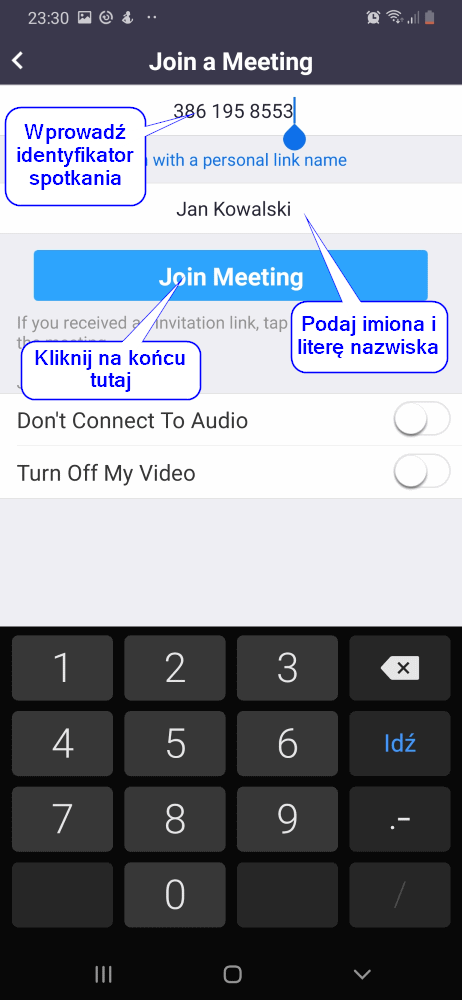
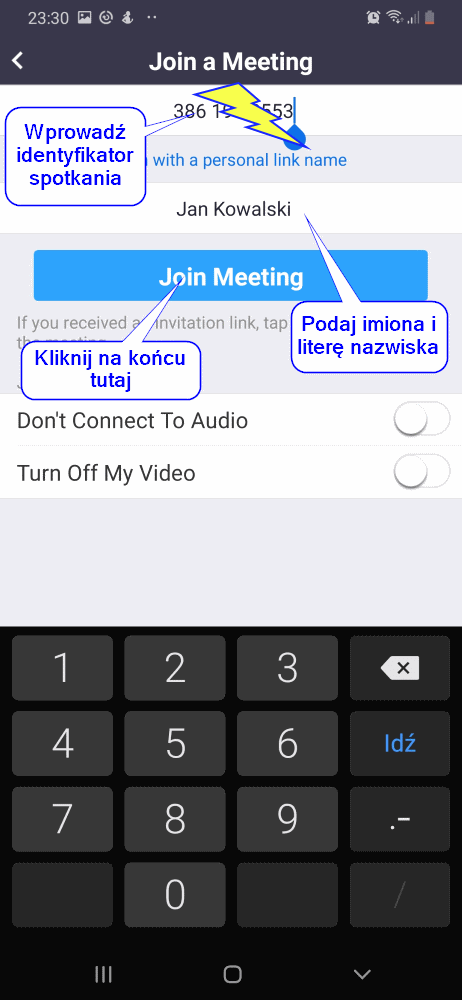
Updated desc of connection to ZOOM

Changed region(s): [[0.4242, 0.062, 0.6667, 0.155]]

diff --git a/zoom/index.html b/zoom/index.html
@@ -226,6 +226,6 @@ header, .context-menu, .megamenu-content, footer { font-family: "Segoe UI", Aria
 </style>
 </head>
 <body class='typora-export os-windows' >
-<div  id='write'  class = 'is-node'><h1><a name='header-n0' class='md-header-anchor '></a>Przygotowanie komputera do spotkania w „ZOOM”</h1><h2><a name='header-n2' class='md-header-anchor '></a>Spis treści</h2><div class='md-toc' mdtype='toc'><p class="md-toc-content"><span class="md-toc-item md-toc-h1" data-ref="n0"><a class="md-toc-inner" style="cursor: pointer;" href="#header-n0">Przygotowanie komputera do spotkania w „ZOOM”</a></span><span class="md-toc-item md-toc-h2" data-ref="n2"><a class="md-toc-inner" style="cursor: pointer;" href="#header-n2">Spis treści</a></span><span class="md-toc-item md-toc-h2" data-ref="n3"><a class="md-toc-inner" style="cursor: pointer;" href="#header-n3">Co to jest ZOOM?</a></span><span class="md-toc-item md-toc-h2" data-ref="n6"><a class="md-toc-inner" style="cursor: pointer;" href="#header-n6">Wymagania początkowe</a></span><span class="md-toc-item md-toc-h2" data-ref="n10"><a class="md-toc-inner" style="cursor: pointer;" href="#header-n10">Przygotowanie komputera</a></span><span class="md-toc-item md-toc-h2" data-ref="n46"><a class="md-toc-inner" style="cursor: pointer;" href="#header-n46">Przygotowanie telefonu (Android)</a></span><span class="md-toc-item md-toc-h2" data-ref="n102"><a class="md-toc-inner" style="cursor: pointer;" href="#header-n102">Jak podłączyć się do spotkania?</a></span><span class="md-toc-item md-toc-h3" data-ref="n189"><a class="md-toc-inner" style="cursor: pointer;" href="#header-n189">Podłączenie z komputera</a></span><span class="md-toc-item md-toc-h3" data-ref="n219"><a class="md-toc-inner" style="cursor: pointer;" href="#header-n219">Podłączenie z telefonu</a></span></p></div><p>&nbsp;</p><h2><a name='header-n3' class='md-header-anchor '></a>Co to jest ZOOM?</h2><p>Jeżeli słyszałeś kiedyś o Skype, Whatsapp lub Webex to jest to podobne rozwiązanie umożliwiające połączenie audio i video przez Internet. Jeżeli nie słyszałeś to się tym nie przejmuj. Najważniejsze informacje znajdziesz w poniższej instrukcji.</p><p> </p><h2><a name='header-n6' class='md-header-anchor '></a>Wymagania początkowe</h2><p>Jeżeli posiadasz KOMPUTER z systemem Windows 7 lub nowszy to wystarczy. Może być również Windows XP lub Vista, ale wtedy wymaga dodatkowych aktualizacji, których możesz nie mieć – proszę o kontakt bezpośredni. Oczywiście komputer musisz mieć podłączony do Internetu i wyposażony w mikrofon oraz kamerę. Jeżeli nie posiadasz mikrofonu i kamery to możesz podłączyć się do spotkania, ale bez możliwości przekazania swojego głosu oraz obrazu.</p><p>Jeśli nie masz komputera, ale masz telefon tzw. smartfon – taki bez klawiszy, z dużym kolorowym ekranem to również wystarczy.</p><p> </p><h2><a name='header-n10' class='md-header-anchor '></a>Przygotowanie komputera</h2><p>Zakładam, że masz system Windows 7 lub nowszy. Jeśli nie to skontaktuj się bezpośrednio to Ci pomogę przygotować komputer.</p><ol start='' ><li>Uruchom komputer i otwórz przeglądarkę Internetową. Na przykład „Internet Explorer”.</li><li>W polu adres wpisz: <a href='https://us04web.zoom.us/j/3861958553' target='_blank' class='url'>https://us04web.zoom.us/j/3861958553</a> - nie lękaj się, to jest adres do prywatnego spotkania, który wykorzystamy tylko do przygotowania komputera. Zobaczysz podobny ekran jak poniżej.</li></ol><p> <img src='images/image01.png' alt='' referrerPolicy='no-referrer' /></p><p> </p><p>&nbsp;</p><ol start='3' ><li>Następnie pojawi się przez chwilkę okno instalacji programu ZOOM umożliwiającego podłączenie się do spotkania. Nie przejmuj się obcym językiem. Po prostu poczekaj aż niebieski pasek przejdzie do 100%. Nic nie rób, może to potrwać chwilę zależnie od twojego komputera.</li></ol><p><img src='images/image02.png' alt='' referrerPolicy='no-referrer' /></p><p> </p><p>&nbsp;</p><ol start='4' ><li>Jeżeli widzisz poniższe okno to znaczy, że jesteś gotowy do spotkania. Proponuję jednak, abyś zweryfikował sobie prawidłowe działanie głośników, mikrofonu i kamery. Szczegóły w kolejnych punktach. Poniższy ekran informuje, że musisz zaczekać na organizatora spotkania. Jeżeli podczas Twoich prób nie będę mógł się podłączyć, to się nie przejmuj. Komputer jest gotowy do podłączenia. Teraz możesz czekać na adres spotkania</li></ol><p><img src='images/image03.png' alt='' referrerPolicy='no-referrer' /></p><p> </p><p>&nbsp;</p><p>Zalecam weryfikację podłączonych głośników i mikrofonu. Jeżeli nie chcesz tego robić teraz to zamykasz okno i pojawi się poniższy komunikat. Wtedy klikasz niebieski przycisk <Leave Meeting>.</p><p><img src='images/image04.png' alt='' referrerPolicy='no-referrer' /></p><p> </p><p>&nbsp;</p><ol start='5' ><li>Po kliknięciu na przycisk <Test Computer Audio> możesz zweryfikować działanie głośnika i mikrofonu. Najpierw sprawdź czy słyszysz przykładową melodyjkę w głośnikach. Następnie zweryfikuj działanie twojego mikrofonu. Więcej szczegółów na poniższym ekranie.</li></ol><p><img src='images/image05.png' alt='' referrerPolicy='no-referrer' /></p><p>&nbsp;</p><h2><a name='header-n46' class='md-header-anchor '></a>Przygotowanie telefonu (Android)</h2><p>Dla posiadaczy telefonów innych niż iPhone firmy Apple przygotowałem instrukcję jak przygotować telefon do podłączenia się do spotkania w ZOOM. Jeżeli jesteś posiadaczem iPhone to podobnie instalujesz program, ale ekrany mogą wyglądać nieco inaczej.</p><ol><li><p>Rozpoczynamy od uruchomienia aplikacji [Sklep Play]. Poniżej masz przedstawioną ikonkę aplikacji, którą powinieneś znaleźć u siebie na telefonie.</p><p><img src='images/image07.png' alt='' referrerPolicy='no-referrer' /></p></li><li><p>Następnie wyszukujemy aplikację, która umożliwi nam podłączenie się do spotkania. Po uruchomieniu aplikacji [Sklep Play] zobaczymy podobne okno, w który na górze możemy wpisać słowo kluczowe &quot;zoom&quot;.</p><p><img src='images/image08.png' alt='' referrerPolicy='no-referrer' /></p><p>&nbsp;</p><p>Następnie wpisujemy słowo [zoom] i wybieramy z listy aplikację [ZOOM Cloud Meetings]. Patrz poniżej na ekranie.</p><p><img src='images/image06.png' alt='' referrerPolicy='no-referrer' /></p></li><li><p>W tym kroku potwierdzamy chęć instalacji aplikacji poprzez kliknięcie na przycisku [Zainstaluj]. Jeżeli widzisz przyciski [Odinstaluj] i [Otwórz] to znaczy, że już zainstalowałeś ten program i możesz od razu przejść do kolejnego kroku.</p><p><img src='images/image09.png' alt='' referrerPolicy='no-referrer' /></p><p>&nbsp;</p><p>Następnie musimy nieco poczekać na zakończenie procesu instalacji. Będziemy widzieli poniższe okno z informację o postępie instalacji. Czekamy do momentu, kiedy będziemy mieć aktywny przycisk [Otwórz].</p><p><img src='images/image10.png' alt='' referrerPolicy='no-referrer' /></p><p>&nbsp;</p></li><li><p>Uruchamiamy aplikację [ZOOM Cloud Meetings] klikając na przycisk [Otwórz].</p><p><img src='images/image11.png' alt='' referrerPolicy='no-referrer' /></p><p>W efekcie zobaczymy poniższy ekran, z którego możemy podłączyć się już do spotkania. Kolejne kroki jak podłączyć się do spotkania znajdziesz następnym rozdziale.</p><p><img src='images/image12.jpg' alt='' referrerPolicy='no-referrer' /></p><p>&nbsp;</p></li></ol><h2><a name='header-n102' class='md-header-anchor '></a>Jak podłączyć się do spotkania?</h2><p>W celu podłączenia się do spotkania potrzebujesz identyfikator spotkania, który składa się z cyfr. Na przykład:  386 195 8553 to identyfikator mojego pokoju spotkania. Właściwy numer spotkania otrzymacie od osoby, która Was zaprasza. Poniżej zobaczysz szczegóły podłączenia przez komputer lub telefon komórkowy.</p><h3><a name='header-n189' class='md-header-anchor '></a>Podłączenie z komputera</h3><p>Jeżeli wykonałeś kroki [Przygotowanie komputera][] do spotkania to teraz uruchom przeglądarkę internetową np. Internet Explorer i wprowadź adres: <a href='https://zoom.us/join' target='_blank' class='url'>https://zoom.us/join</a>. </p><p><img src='images/image12.png' alt='' referrerPolicy='no-referrer' /></p><p>Po wprowadzeniu numeru spotkania i kliknięciu przycisku [Join] otworzy Ci się poniższe okno. Wprowadź imiona i pierwszą literę nazwiska. Następnie kliknij [Join Meeting].</p><p><img src='images/image13.png' alt='' referrerPolicy='no-referrer' /></p><p>Następnie możesz zobaczy okno z pytaniem czy chcesz przekazywać podczas spotkania obraz z Twojej kamery. Wybierz co ci odpowiada.</p><p><img src='images/image14.png' alt='' referrerPolicy='no-referrer' /></p><p>Ostatni krok potwierdza podłączenie do spotkania z przekazywaniem dźwięku przez komputer.</p><p><img src='images/image15.png' alt='' referrerPolicy='no-referrer' /></p><p>Gotowe!</p><p>&nbsp;</p><h3><a name='header-n219' class='md-header-anchor '></a>Podłączenie z telefonu</h3><p>Jeżeli wykonałeś kroki [Przygotowanie telefonu (Android)][] do spotkania to teraz uruchom aplikację [Zoom].</p><p>&nbsp;</p><p>Po uruchomieniu aplikacji powinieneś zobaczyć poniższy obraz.</p><p><img src='images/image12.jpg' alt='' referrerPolicy='no-referrer' /></p><p>Pojawi się ekran z miejscem do wprowadzenia numeru spotkania oraz imion uczestników.</p><p><img src='images/image16.png' alt='' referrerPolicy='no-referrer' /></p><p>Kolejne ekrany mogą się pojawiać za pierwszym raz celem potwierdzenia zasad użytkowania oraz odblokowanie dostępu do mikrofonu i kamery. Zezwól na ten dostęp zgodnie z poniższymi ekranami.</p><p><img src='images/image17.png' alt='' referrerPolicy='no-referrer' /></p><p>Następnie będzie informacja, że twój telefon może poprosić o zezwolenie używania mikrofonu i kamery. Kliknij przycisk  [Got it]</p><p><img src='images/image18.png' alt='' referrerPolicy='no-referrer' /></p><p>Jeżeli zobaczysz zapytanie jak poniżej to kliknij [Zezwól]</p><p><img src='images/image19.png' alt='' referrerPolicy='no-referrer' /></p><p>Gotowe!</p><p>&nbsp;</p><p>&nbsp;</p><p>&nbsp;</p></div>
+<div  id='write'  class = 'is-node'><h1><a name='header-n0' class='md-header-anchor '></a>Przygotowanie komputera do spotkania w „ZOOM”</h1><h2><a name='header-n2' class='md-header-anchor '></a>Spis treści</h2><div class='md-toc' mdtype='toc'><p class="md-toc-content"><span class="md-toc-item md-toc-h1" data-ref="n0"><a class="md-toc-inner" style="cursor: pointer;" href="#header-n0">Przygotowanie komputera do spotkania w „ZOOM”</a></span><span class="md-toc-item md-toc-h2" data-ref="n2"><a class="md-toc-inner" style="cursor: pointer;" href="#header-n2">Spis treści</a></span><span class="md-toc-item md-toc-h2" data-ref="n5"><a class="md-toc-inner" style="cursor: pointer;" href="#header-n5">Co to jest ZOOM?</a></span><span class="md-toc-item md-toc-h2" data-ref="n8"><a class="md-toc-inner" style="cursor: pointer;" href="#header-n8">Wymagania początkowe</a></span><span class="md-toc-item md-toc-h2" data-ref="n12"><a class="md-toc-inner" style="cursor: pointer;" href="#header-n12">Przygotowanie komputera</a></span><span class="md-toc-item md-toc-h2" data-ref="n43"><a class="md-toc-inner" style="cursor: pointer;" href="#header-n43">Przygotowanie telefonu (Android)</a></span><span class="md-toc-item md-toc-h2" data-ref="n68"><a class="md-toc-inner" style="cursor: pointer;" href="#header-n68">Jak podłączyć się do spotkania?</a></span><span class="md-toc-item md-toc-h3" data-ref="n70"><a class="md-toc-inner" style="cursor: pointer;" href="#header-n70">Podłączenie z komputera</a></span><span class="md-toc-item md-toc-h3" data-ref="n81"><a class="md-toc-inner" style="cursor: pointer;" href="#header-n81">Podłączenie z telefonu</a></span></p></div><p>&nbsp;</p><h2><a name='header-n5' class='md-header-anchor '></a>Co to jest ZOOM?</h2><p>Jeżeli słyszałeś kiedyś o Skype, Whatsapp lub Webex to jest to podobne rozwiązanie umożliwiające połączenie audio i video przez Internet. Jeżeli nie słyszałeś to się tym nie przejmuj. Najważniejsze informacje znajdziesz w poniższej instrukcji.</p><p> </p><h2><a name='header-n8' class='md-header-anchor '></a>Wymagania początkowe</h2><p>Jeżeli posiadasz KOMPUTER z systemem Windows 7 lub nowszy to wystarczy. Może być również Windows XP lub Vista, ale wtedy wymaga dodatkowych aktualizacji, których możesz nie mieć – proszę o kontakt bezpośredni. Oczywiście komputer musisz mieć podłączony do Internetu i wyposażony w mikrofon oraz kamerę. Jeżeli nie posiadasz mikrofonu i kamery to możesz podłączyć się do spotkania, ale bez możliwości przekazania swojego głosu oraz obrazu.</p><p>Jeśli nie masz komputera, ale masz telefon tzw. smartfon – taki bez klawiszy, z dużym kolorowym ekranem to również wystarczy.</p><p> </p><h2><a name='header-n12' class='md-header-anchor '></a>Przygotowanie komputera</h2><p>Zakładam, że masz system Windows 7 lub nowszy. Jeśli nie to skontaktuj się bezpośrednio to Ci pomogę przygotować komputer.</p><ol start='' ><li>Uruchom komputer i otwórz przeglądarkę Internetową. Na przykład „Internet Explorer”.</li><li>W polu adres wpisz: <a href='https://us04web.zoom.us/j/3861958553' target='_blank' class='url'>https://us04web.zoom.us/j/3861958553</a> - nie lękaj się, to jest adres do prywatnego spotkania, który wykorzystamy tylko do przygotowania komputera. Zobaczysz podobny ekran jak poniżej.</li></ol><p> <img src='images/image01.png' alt='' referrerPolicy='no-referrer' /></p><p> </p><p>&nbsp;</p><ol start='3' ><li>Następnie pojawi się przez chwilkę okno instalacji programu ZOOM umożliwiającego podłączenie się do spotkania. Nie przejmuj się obcym językiem. Po prostu poczekaj aż niebieski pasek przejdzie do 100%. Nic nie rób, może to potrwać chwilę zależnie od twojego komputera.</li></ol><p><img src='images/image02.png' alt='' referrerPolicy='no-referrer' /></p><p> </p><p>&nbsp;</p><ol start='4' ><li>Jeżeli widzisz poniższe okno to znaczy, że jesteś gotowy do spotkania. Proponuję jednak, abyś zweryfikował sobie prawidłowe działanie głośników, mikrofonu i kamery. Szczegóły w kolejnych punktach. Poniższy ekran informuje, że musisz zaczekać na organizatora spotkania. Jeżeli podczas Twoich prób nie będę mógł się podłączyć, to się nie przejmuj. Komputer jest gotowy do podłączenia. Teraz możesz czekać na adres spotkania</li></ol><p><img src='images/image03.png' alt='' referrerPolicy='no-referrer' /></p><p> </p><p>&nbsp;</p><p>Zalecam weryfikację podłączonych głośników i mikrofonu. Jeżeli nie chcesz tego robić teraz to zamykasz okno i pojawi się poniższy komunikat. Wtedy klikasz niebieski przycisk <Leave Meeting>.</p><p><img src='images/image04.png' alt='' referrerPolicy='no-referrer' /></p><p> </p><p>&nbsp;</p><ol start='5' ><li>Po kliknięciu na przycisk <Test Computer Audio> możesz zweryfikować działanie głośnika i mikrofonu. Najpierw sprawdź czy słyszysz przykładową melodyjkę w głośnikach. Następnie zweryfikuj działanie twojego mikrofonu. Więcej szczegółów na poniższym ekranie.</li></ol><p><img src='images/image05.png' alt='' referrerPolicy='no-referrer' /></p><p>&nbsp;</p><h2><a name='header-n43' class='md-header-anchor '></a>Przygotowanie telefonu (Android)</h2><p>Dla posiadaczy telefonów innych niż iPhone firmy Apple przygotowałem instrukcję jak przygotować telefon do podłączenia się do spotkania w ZOOM. Jeżeli jesteś posiadaczem iPhone to podobnie instalujesz program, ale ekrany mogą wyglądać nieco inaczej.</p><ol start='' ><li><p>Rozpoczynamy od uruchomienia aplikacji [Sklep Play]. Poniżej masz przedstawioną ikonkę aplikacji, którą powinieneś znaleźć u siebie na telefonie.</p><p><img src='images/image07.png' alt='' referrerPolicy='no-referrer' /></p></li><li><p>Następnie wyszukujemy aplikację, która umożliwi nam podłączenie się do spotkania. Po uruchomieniu aplikacji [Sklep Play] zobaczymy podobne okno, w który na górze możemy wpisać słowo kluczowe &quot;zoom&quot;.</p><p><img src='images/image08.png' alt='' referrerPolicy='no-referrer' /></p><p>&nbsp;</p><p>Następnie wpisujemy słowo [zoom] i wybieramy z listy aplikację [ZOOM Cloud Meetings]. Patrz poniżej na ekranie.</p><p><img src='images/image06.png' alt='' referrerPolicy='no-referrer' /></p></li><li><p>W tym kroku potwierdzamy chęć instalacji aplikacji poprzez kliknięcie na przycisku [Zainstaluj]. Jeżeli widzisz przyciski [Odinstaluj] i [Otwórz] to znaczy, że już zainstalowałeś ten program i możesz od razu przejść do kolejnego kroku.</p><p><img src='images/image09.png' alt='' referrerPolicy='no-referrer' /></p><p>&nbsp;</p><p>Następnie musimy nieco poczekać na zakończenie procesu instalacji. Będziemy widzieli poniższe okno z informację o postępie instalacji. Czekamy do momentu, kiedy będziemy mieć aktywny przycisk [Otwórz].</p><p><img src='images/image10.png' alt='' referrerPolicy='no-referrer' /></p><p>&nbsp;</p></li><li><p>Uruchamiamy aplikację [ZOOM Cloud Meetings] klikając na przycisk [Otwórz].</p><p><img src='images/image11.png' alt='' referrerPolicy='no-referrer' /></p><p>W efekcie zobaczymy poniższy ekran, z którego możemy podłączyć się już do spotkania. Kolejne kroki jak podłączyć się do spotkania znajdziesz następnym rozdziale.</p><p><img src='images/image12.jpg' alt='' referrerPolicy='no-referrer' /></p><p>&nbsp;</p></li></ol><h2><a name='header-n68' class='md-header-anchor '></a>Jak podłączyć się do spotkania?</h2><p>W celu podłączenia się do spotkania potrzebujesz identyfikator spotkania, który składa się z cyfr. Na przykład:  386 195 8553 to identyfikator mojego pokoju spotkania. Właściwy numer spotkania otrzymacie od osoby, która Was zaprasza. Poniżej zobaczysz szczegóły podłączenia przez komputer lub telefon komórkowy.</p><h3><a name='header-n70' class='md-header-anchor '></a>Podłączenie z komputera</h3><p>Jeżeli wykonałeś kroki [Przygotowanie komputera][] do spotkania to teraz uruchom przeglądarkę internetową np. Internet Explorer i wprowadź adres: <a href='https://zoom.us/join' target='_blank' class='url'>https://zoom.us/join</a>. </p><p><img src='images/image12.png' alt='' referrerPolicy='no-referrer' /></p><p>Po wprowadzeniu numeru spotkania i kliknięciu przycisku [Join] otworzy Ci się poniższe okno. Wprowadź imiona i pierwszą literę nazwiska. Następnie kliknij [Join Meeting].</p><p><img src='images/image13.png' alt='' referrerPolicy='no-referrer' /></p><p>Następnie możesz zobaczy okno z pytaniem czy chcesz przekazywać podczas spotkania obraz z Twojej kamery. Wybierz co ci odpowiada.</p><p><img src='images/image14.png' alt='' referrerPolicy='no-referrer' /></p><p>Ostatni krok potwierdza podłączenie do spotkania z przekazywaniem dźwięku przez komputer.</p><p><img src='images/image15.png' alt='' referrerPolicy='no-referrer' /></p><p>Gotowe!</p><p>&nbsp;</p><h3><a name='header-n81' class='md-header-anchor '></a>Podłączenie z telefonu</h3><p>Jeżeli wykonałeś kroki [Przygotowanie telefonu (Android)][] do spotkania to teraz uruchom aplikację [Zoom]. Szukaj ikony aplikacji w telefonie jak poniżej.</p><p><img src='images/image20.png' alt='' referrerPolicy='no-referrer' /></p><p>&nbsp;</p><p>Po uruchomieniu aplikacji powinieneś zobaczyć poniższy obraz.</p><p><img src='images/image12.jpg' alt='' referrerPolicy='no-referrer' /></p><p>Pojawi się ekran z miejscem do wprowadzenia numeru spotkania oraz imion uczestników. UWAGA! Numer przedstawiony na ekranie nie jest prawidłowym numerem spotkania. To jest tylko przykład. Właściwy numer powinieneś otrzymać od osoby zapraszającej.</p><p><img src='images/image16.png' alt='' referrerPolicy='no-referrer' /></p><p>Kolejne ekrany mogą się pojawiać za pierwszym raz celem potwierdzenia zasad użytkowania oraz odblokowanie dostępu do mikrofonu i kamery. Zezwól na ten dostęp zgodnie z poniższymi ekranami.</p><p><img src='images/image17.png' alt='' referrerPolicy='no-referrer' /></p><p>Następnie będzie informacja, że twój telefon może poprosić o zezwolenie używania mikrofonu i kamery. Kliknij przycisk  [Got it]</p><p><img src='images/image18.png' alt='' referrerPolicy='no-referrer' /></p><p>Jeżeli zobaczysz zapytanie jak poniżej to kliknij [Zezwól]</p><p><img src='images/image19.png' alt='' referrerPolicy='no-referrer' /></p><p>Gotowe!</p><p>&nbsp;</p><p>&nbsp;</p><p>&nbsp;</p></div>
 </body>
 </html>

diff --git a/zoom/Przygotowanie_ZOOM.md b/zoom/Przygotowanie_ZOOM.md
@@ -132,7 +132,9 @@ Gotowe!
 
 ### Podłączenie z telefonu
 
-Jeżeli wykonałeś kroki [Przygotowanie telefonu (Android)][] do spotkania to teraz uruchom aplikację [Zoom].
+Jeżeli wykonałeś kroki [Przygotowanie telefonu (Android)][] do spotkania to teraz uruchom aplikację [Zoom]. Szukaj ikony aplikacji w telefonie jak poniżej.
+
+![](images/image20.png)
 
 
 
@@ -140,7 +142,7 @@ Po uruchomieniu aplikacji powinieneś zobaczyć poniższy obraz.
 
 ![](images/image12.jpg)
 
-Pojawi się ekran z miejscem do wprowadzenia numeru spotkania oraz imion uczestników.
+Pojawi się ekran z miejscem do wprowadzenia numeru spotkania oraz imion uczestników. UWAGA! Numer przedstawiony na ekranie nie jest prawidłowym numerem spotkania. To jest tylko przykład. Właściwy numer powinieneś otrzymać od osoby zapraszającej.
 
 ![](images/image16.png)
 
